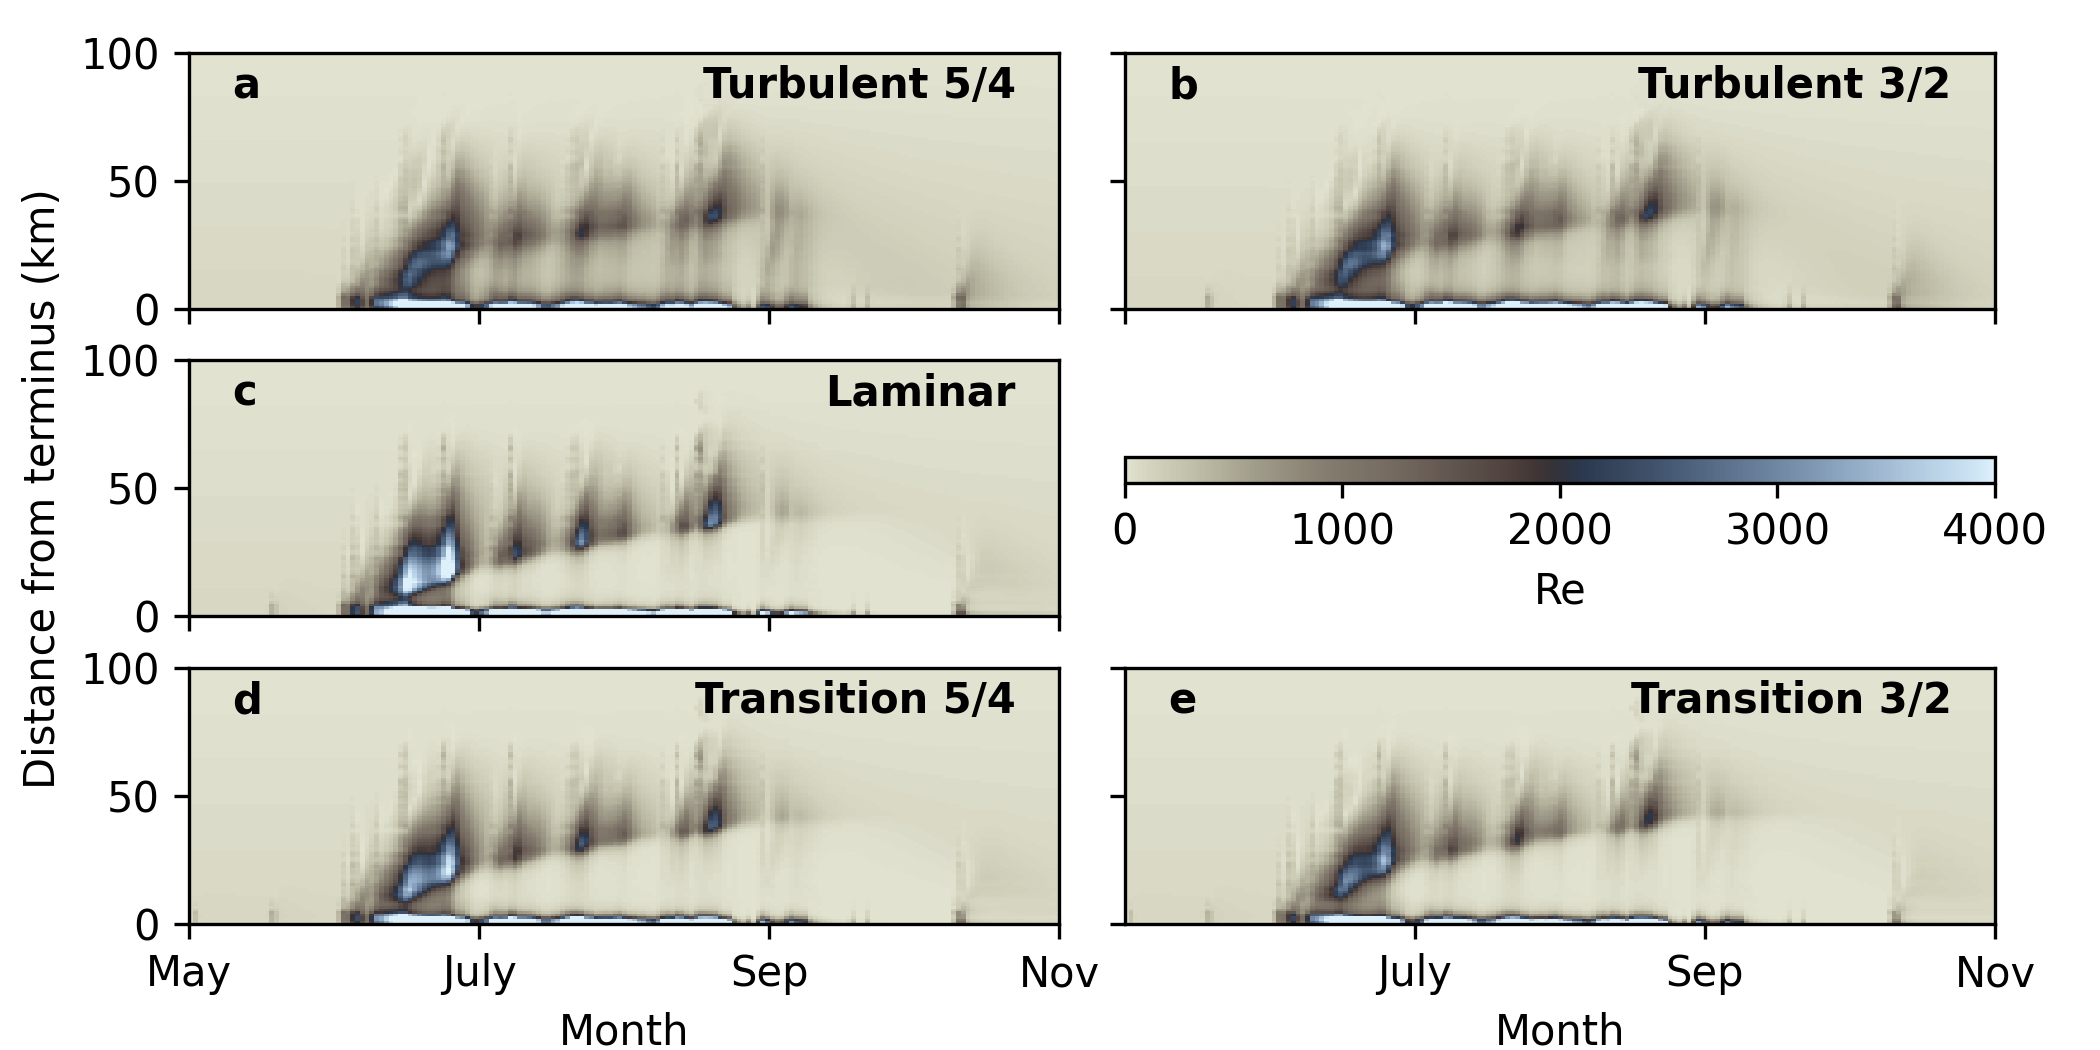
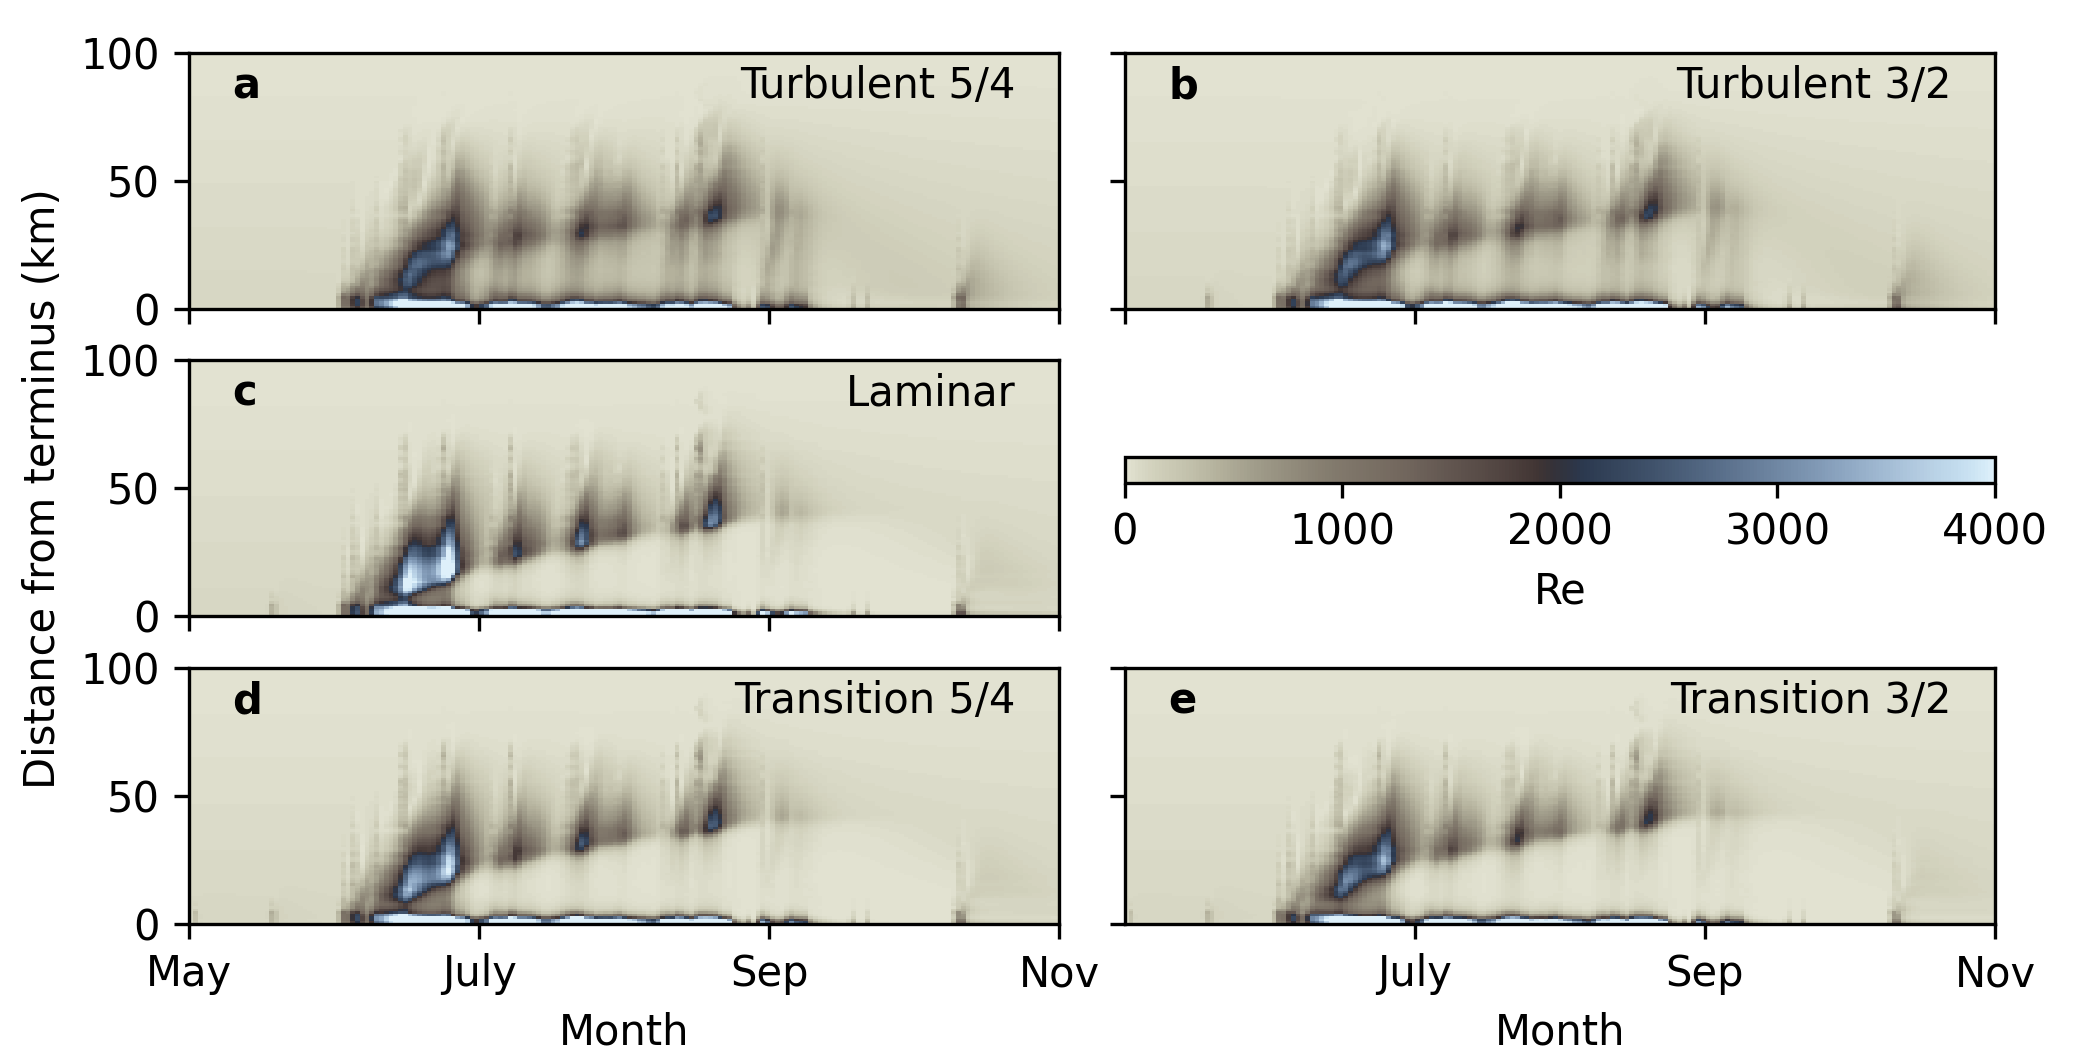
fontweight

diff --git a/glads/dev_01_kan_forcing_scaling/analysis/plot_Re_time.py b/glads/dev_01_kan_forcing_scaling/analysis/plot_Re_time.py
@@ -104,7 +104,7 @@ def main(fnames, figname, figsize=figsize,
 
         ax.text(0.05, 0.95, alphabet[ii], fontweight='bold', transform=ax.transAxes,
             va='top', ha='left')
-        ax.text(0.95, 0.95, labels[ii], fontweight='bold', transform=ax.transAxes,
+        ax.text(0.95, 0.95, labels[ii], transform=ax.transAxes,
             va='top', ha='right')
 
     cax1 = fig.add_subplot(cax_gs[1])
